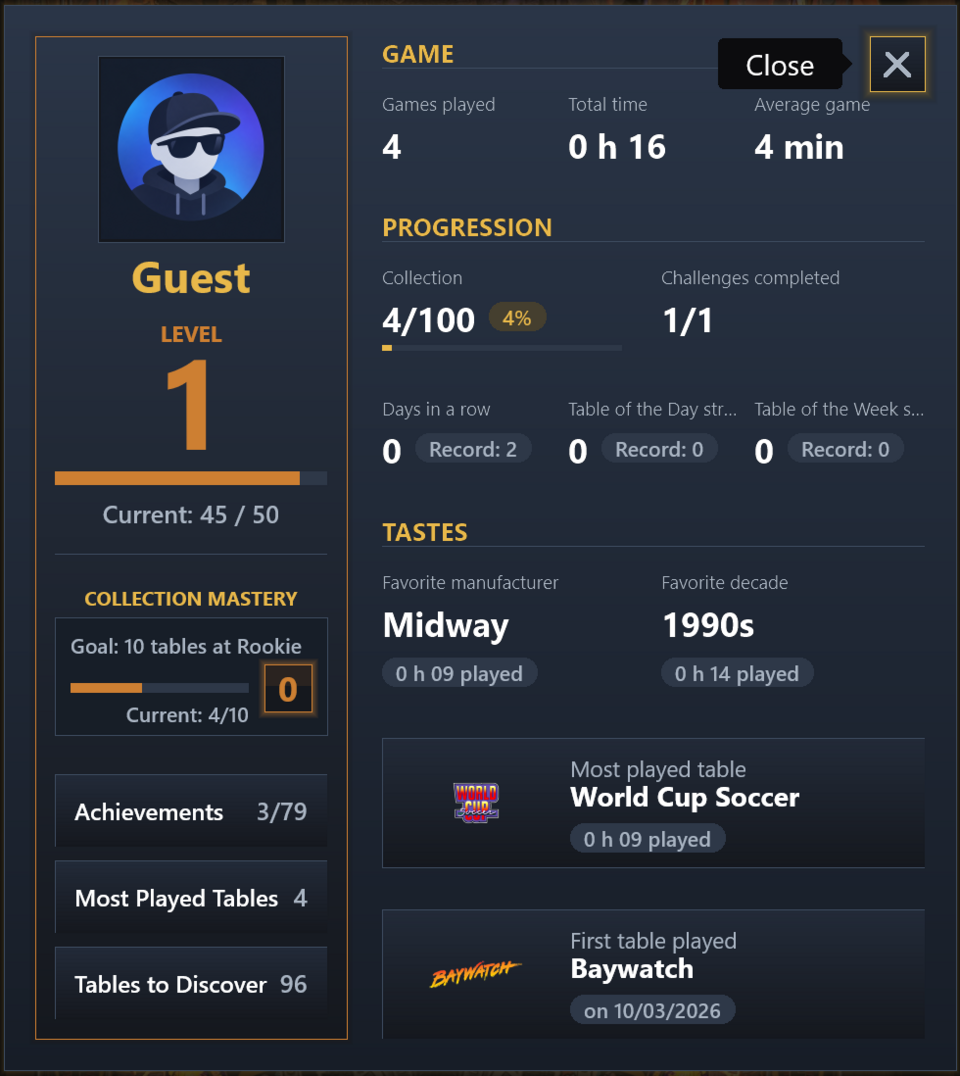
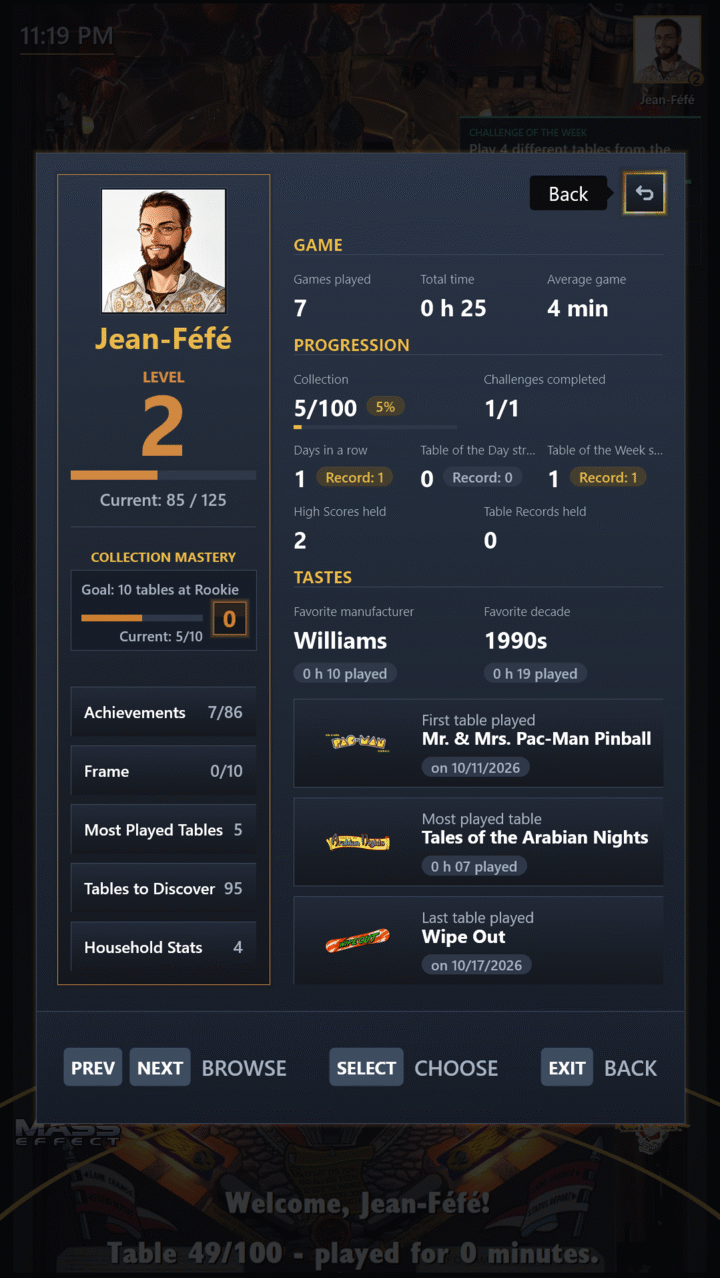
README captures retaken on the cabinet
New 720 px captures of the current look: wheel, Change Player, Welcome
Screen, Profile Stats, Achievement List, drawn main menu (French),
Household Stats and High Score Board. The Challenge Card is cropped from
the new wheel capture; the Achievement Toast is unchanged. The drawn main
menu replaces translation.png, and Household Stats and the High Score
Board get their own image in both READMEs, with up-to-date alts.

Closes #262

diff --git a/README.fr.md b/README.fr.md
@@ -15,7 +15,7 @@ Extension non officielle de [PinballY](http://mjrnet.org/pinscape/PinballY.php),
 
 ### PinballY en 6 langues
 
-<img src="docs/images/translation.png" alt="Le menu Quitter de PinballY en français" width="480">
+<img src="docs/images/main_menu.png" alt="Le menu principal dessiné, en français, rangé en sections" width="400">
 
 Les menus et messages de PinballY enfin en français, mais aussi en allemand, espagnol, italien et portugais.
 
@@ -27,7 +27,7 @@ Avec « Changer de joueur », chacun prend son Profil et son Avatar, et l'écran
 
 ### Vos statistiques
 
-<img src="docs/images/profile_stats.png" alt="Les statistiques du Profil Invité" width="480">
+<img src="docs/images/profile_stats.png" alt="Les statistiques d'un Profil : niveau, maîtrise de la collection, parties, séries, goûts et tables jouées en premier, le plus et en dernier" width="480">
 
 **Vos statistiques**, dans le menu principal, résument votre vie de flippeur :
 - parties jouées, temps total et durée moyenne d'une partie ;
@@ -40,6 +40,8 @@ Avec « Changer de joueur », chacun prend son Profil et son Avatar, et l'écran
 
 Dès que vous êtes deux à avoir un Profil, **Stats de la maison** montre tous les Profils côte à côte, sauf Invité, chaque Avatar dans son cadre, le meilleur de chaque ligne en doré ; choisissez une colonne pour voir les statistiques de ce Profil.
 
+<img src="docs/images/household_stats.png" alt="Stats de la maison : trois Profils côte à côte, le meilleur de chaque ligne en doré" width="400">
+
 ### Écran d'accueil : table du jour, table de la semaine
 
 <img src="docs/images/welcome_screen.png" alt="L'écran d'accueil avec la table du jour et la table de la semaine" width="480">
@@ -48,7 +50,7 @@ Chaque jour une table que personne à la maison n'a encore jouée, ou celle dél
 
 ### Défis de la semaine
 
-<img src="docs/images/challenges.png" alt="La carte du Défi de la semaine sous le badge du Profil" width="376">
+<img src="docs/images/challenges.png" alt="La carte du Défi de la semaine sous le badge du Profil" width="380">
 
 Chaque lundi arrive un nouveau Défi, le même pour toute la maison : cinq tables Stern différentes, trois tables jamais jouées, une demi-heure sur une même table… Sa carte suit votre progression sur l'écran de la roue. **Tables du défi**, juste sous « Toutes les tables » dans le menu principal, ne garde que les tables qui le font avancer. Le réussir fait pleuvoir des confettis sur tout l'écran de la roue.
 
@@ -59,6 +61,8 @@ Chaque minute passée sur une table fait monter votre maîtrise de celle-ci, sur
 ### Meilleurs scores
 
 Quand vous entrez au tableau des meilleurs scores d'une table, la place est à vous : le pack relit le tableau avant et après chaque partie et, pour une partie d'au moins une minute, attribue chaque nouveau score au Profil qui jouait, quelles que soient les initiales tapées, les autres joueurs d'une partie à plusieurs compris. Un encart annonce votre meilleure place, ou le record et à qui vous l'avez pris. Quand quelqu'un d'autre vous prend un record, Invité compris, votre prochain écran d'accueil vous dit qui, une seule fois, pour que vous sachiez quel record reprendre. Les scores déjà au tableau au premier relevé, ceux d'usine compris, n'appartiennent à personne, et une remise à zéro de la ROM qui les ramène n'est jamais attribuée. Un meilleur score gagné le reste même chassé du tableau par des scores plus récents, et rapporte ses propres succès ; **Vos statistiques** montrent les meilleurs scores et records que vous détenez encore, et **Stats de la maison** qui détient le plus de records. Les tables sans ROM (créations originales) comptent aussi : le pack lit leur tableau dans le dossier `User` de Visual Pinball X (`VPReg.stg`, ou le fichier texte que certaines tables y gardent), apprend où chaque table le range pendant sa première partie, et le passe à PinballY, pour que le DMD et la fiche de la table l'affichent aussi. Leur tableau apparaît dès qu'une telle table a été jouée avec le pack.
+
+<img src="docs/images/high_score_board.png" alt="Le tableau des meilleurs scores d'une table : le podium sous ses trois couronnes, puis les autres places, dont une gagnée par un Profil" width="400">
 
 **Meilleurs scores** dans le menu principal (ou le bouton `HighScores` de PinballY, s'il est affecté) ouvre le tableau de la table sélectionnée, dessiné dans le style Steamball à la place de la fenêtre de PinballY : les trois premières places sur un podium sous une couronne d'or, d'argent et de bronze, les autres en lignes en dessous, chacune avec son rang, son score, ses initiales et le Profil qui l'a gagnée (nom, Avatar et cadre d'Avatar), ou « Score par défaut » avec un portrait choisi d'après ses initiales, le même sur toutes les tables. Le tableau est relu sur la table à chaque ouverture, il montre donc toujours ce qu'elle contient ; les flippers font défiler un tableau trop long pour l'écran.
 

diff --git a/README.md b/README.md
@@ -14,9 +14,11 @@ With Change Player, each of you picks your own Profile and Avatar, and the Welco
 
 ### Profile Stats
 
-<img src="docs/images/profile_stats.png" alt="The Profile Stats of Guest" width="480">
+<img src="docs/images/profile_stats.png" alt="The Profile Stats of a Profile: Player Level, Collection Mastery, games, Streaks, tastes and first, most and last played tables" width="480">
 
 **Your Stats**, in the main menu, sums up your pinball life: games played and total time, your Player Level and Collection Mastery, average game length, favourite manufacturer, decade and table, the first table you ever played, how much of the collection you have tried, your Achievements, your Daily Streak and your Table of the Day and Table of the Week Streaks, the Challenges you completed, the Avatar Frame you wear, and the way to your most played tables and to the ones still to discover. Once two of you have a Profile, **Household Stats** sets every Profile but Guest side by side, Avatars in their frames, the best of each line in gold; pick a column to see that Profile's own stats.
+
+<img src="docs/images/household_stats.png" alt="The Household Stats with three Profiles side by side, the best of each line in gold" width="400">
 
 ### Welcome Screen: Table of the Day, Table of the Week
 
@@ -26,7 +28,7 @@ Every day there is a table nobody in the house has played yet, or the one left a
 
 ### Weekly Challenges
 
-<img src="docs/images/challenges.png" alt="The week's Challenge Card under the Profile badge" width="376">
+<img src="docs/images/challenges.png" alt="The week's Challenge Card under the Profile badge" width="380">
 
 A new Challenge comes every Monday, the same for the whole household: five different Stern tables, three tables you have never played, half an hour on a single table... Its card on the wheel screen tracks your progress. **Challenge Tables**, right under "All Tables" in the main menu, keeps only the tables that would move it forward. Completing it brings a shower of confetti across the wheel screen.
 
@@ -37,6 +39,8 @@ Every minute you play a table builds your Table Mastery of it, through ten Maste
 ### High Scores
 
 When you enter a table's high score board, the place is yours: the pack reads the board before and after each game and, for a game of a minute or more, credits every new score to the Profile that was playing, whatever initials were typed, the other players of a multiplayer game included. A toast announces your best place, or the Table Record and whom you took it from. When someone else takes one of yours, Guest included, your next Welcome Screen tells you who, once, so you know which record to win back. The scores already on the board at the first read, factory ones included, belong to no one, and a ROM reset that brings them back is never credited. A High Score stays won even once later scores push it off the board, and earns its own Achievements; **Your Stats** shows the High Scores and Table Records you still hold, and **Household Stats** who holds the most Table Records. Tables without a ROM (community originals) count too: the pack reads their board in Visual Pinball X's `User` folder (`VPReg.stg`, or the text file some tables keep there), learns where each table keeps it during its first game, and hands it to PinballY, so the DMD and the table's info box show it as well. Their board appears once such a table has been played with the pack.
+
+<img src="docs/images/high_score_board.png" alt="A table's High Score Board: the podium under its three crowns, then the other places, one of them won by a Profile" width="400">
 
 **High Scores** in the main menu (or PinballY's `HighScores` button, if mapped) opens the selected table's board, drawn in the Steamball look in place of PinballY's own window: the three first places on a podium under a Gold, Silver and Bronze crown, the others in rows below, each with its rank, score, initials and the Profile that won it (name, Avatar and Avatar Frame), or "Default score" with a portrait picked by its initials, the same on every table. The board is read again from the table each time you open it, so it always shows what the table holds now; the flippers scroll a board too long for the screen.
 
@@ -52,7 +56,7 @@ Each Achievement earns points toward your **Player Level**, the more the higher 
 
 ### PinballY in 6 languages
 
-<img src="docs/images/translation.png" alt="PinballY's Exit menu in French" width="480">
+<img src="docs/images/main_menu.png" alt="The drawn main menu in French, sorted into sections" width="400">
 
 PinballY's own menus and messages in French, German, Spanish, Italian or Portuguese.
 
